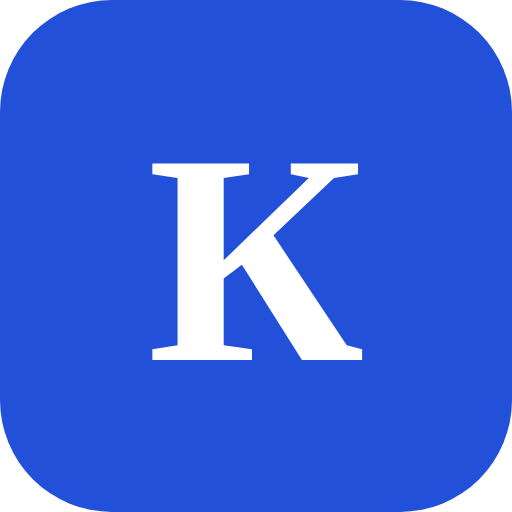
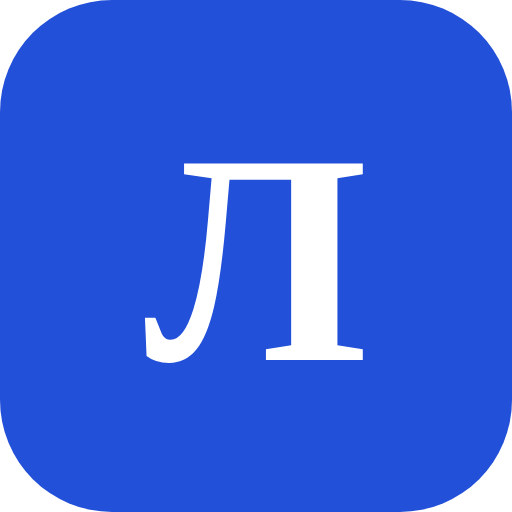
campus: переименование в «Лекторий»
Меняются только видимые названия: шапка, заголовок вкладки, манифест PWA,
иконка (буква Л), имя .ics и заголовки уведомлений. Внутренние идентификаторы
(ключи localStorage, файл базы, cookie, UID в .ics) сохранены, чтобы не терять
данные и сессии существующих пользователей.

Claude-Session: https://claude.ai/code/session_011oLkAh26RDVmpdxEqbkyUZ

Changed region(s): [[0.2812, 0.3125, 0.6875, 0.7188], [0.6875, 0.3125, 0.7188, 0.3438]]

diff --git a/campus/src/components/CalendarApp.tsx b/campus/src/components/CalendarApp.tsx
@@ -148,8 +148,8 @@ export function CalendarApp() {
       <a href="#main" className="sr-only-focusable rounded-lg bg-primary px-3 py-2 text-on-primary">К содержимому</a>
       <header className="flex flex-wrap items-center gap-x-3 gap-y-2 py-4">
         <div className="flex items-center gap-2.5">
-          <span aria-hidden className="grid size-10 place-items-center rounded-xl bg-primary text-on-primary font-display text-xl font-bold">К</span>
-          <span className="font-display text-2xl font-semibold tracking-tight">Кампус</span>
+          <span aria-hidden className="grid size-10 place-items-center rounded-xl bg-primary text-on-primary font-display text-xl font-bold">Л</span>
+          <span className="font-display text-2xl font-semibold tracking-tight">Лекторий</span>
         </div>
         <div className="relative order-3 w-full md:order-none md:ml-4 md:w-80">
           <Search size={16} aria-hidden className="pointer-events-none absolute left-3 top-1/2 -translate-y-1/2 text-muted" />

diff --git a/campus/src/components/SettingsDialog.tsx b/campus/src/components/SettingsDialog.tsx
@@ -32,13 +32,13 @@ export function SettingsDialog({ open, onClose, classes, onLogin }: { open: bool
   const device = typeof Intl !== "undefined" ? Intl.DateTimeFormat().resolvedOptions().timeZone : "Europe/Moscow";
 
   function download() {
-    const blob = new Blob([buildIcs({ name: "Кампус", entries, classes })], { type: "text/calendar;charset=utf-8" });
+    const blob = new Blob([buildIcs({ name: "Лекторий", entries, classes })], { type: "text/calendar;charset=utf-8" });
     const a = document.createElement("a");
     a.href = URL.createObjectURL(blob);
-    a.download = "campus.ics";
+    a.download = "lektorij.ics";
     a.click();
     URL.revokeObjectURL(a.href);
-    say("Файл campus.ics скачан");
+    say("Файл lektorij.ics скачан");
   }
 
   const feedUrl = feedToken && typeof location !== "undefined" ? `${location.origin}/api/feed?token=${feedToken}` : null;

diff --git a/campus/src/app/layout.tsx b/campus/src/app/layout.tsx
@@ -3,10 +3,10 @@ import { PwaRegister } from "@/components/PwaRegister";
 import "./globals.css";
 
 export const metadata: Metadata = {
-  title: "Кампус — расписание и дедлайны",
+  title: "Лекторий — расписание и дедлайны",
   description: "Личный учебный календарь студента СПбГУ: пары, дедлайны, заметки и напоминания.",
   manifest: "/manifest.webmanifest",
-  appleWebApp: { capable: true, title: "Кампус", statusBarStyle: "default" },
+  appleWebApp: { capable: true, title: "Лекторий", statusBarStyle: "default" },
   icons: { icon: "/icon.svg", apple: "/icon-192.png" },
 };
 

diff --git a/campus/public/sw.js b/campus/public/sw.js
@@ -1,4 +1,4 @@
-/* Кампус — service worker: офлайн-оболочка и push-уведомления. */
+/* Лекторий — service worker: офлайн-оболочка и push-уведомления. */
 const VERSION = "v1";
 const SHELL = `campus-shell-${VERSION}`;
 const STATIC = `campus-static-${VERSION}`;
@@ -54,7 +54,7 @@ self.addEventListener("fetch", (e) => {
 });
 
 self.addEventListener("push", (e) => {
-  let d = { title: "Кампус", body: "", tag: undefined, url: "/" };
+  let d = { title: "Лекторий", body: "", tag: undefined, url: "/" };
   try {
     d = { ...d, ...e.data.json() };
   } catch {}

diff --git a/campus/src/app/api/push/test/route.ts b/campus/src/app/api/push/test/route.ts
@@ -6,6 +6,6 @@ import { sendToUser } from "@/lib/push";
 export async function POST() {
   const u = await currentUser();
   if (!u) return bad("Нужно войти", 401);
-  const n = await sendToUser(getDb(), u.id, { title: "Кампус", body: "Уведомления работают 🎉", tag: "test", url: "/" });
+  const n = await sendToUser(getDb(), u.id, { title: "Лекторий", body: "Уведомления работают 🎉", tag: "test", url: "/" });
   return n ? json({ delivered: n }) : bad("Не удалось доставить: нет активных подписок", 409);
 }

diff --git a/campus/src/app/api/feed/route.ts b/campus/src/app/api/feed/route.ts
@@ -33,10 +33,10 @@ export async function GET(req: NextRequest) {
     );
   }
 
-  return new Response(buildIcs({ name: "Кампус", entries, classes }), {
+  return new Response(buildIcs({ name: "Лекторий", entries, classes }), {
     headers: {
       "content-type": "text/calendar; charset=utf-8",
-      "content-disposition": 'inline; filename="campus.ics"',
+      "content-disposition": 'inline; filename="lektorij.ics"',
       "cache-control": "private, max-age=900",
     },
   });

diff --git a/campus/src/lib/ics.ts b/campus/src/lib/ics.ts
@@ -90,7 +90,7 @@ export function buildIcs(opts: { name: string; entries: Entry[]; classes?: Class
   const lines = [
     "BEGIN:VCALENDAR",
     "VERSION:2.0",
-    "PRODID:-//Кампус//Расписание и дедлайны//RU",
+    "PRODID:-//Лекторий//Расписание и дедлайны//RU",
     "CALSCALE:GREGORIAN",
     "METHOD:PUBLISH",
     `X-WR-CALNAME:${esc(opts.name)}`,

diff --git a/campus/README.md b/campus/README.md
@@ -1,4 +1,4 @@
-# Кампус — расписание и дедлайны
+# Лекторий — расписание и дедлайны
 
 Личный учебный календарь для студентов СПбГУ: пары с timetable.spbu.ru, дедлайны и заметки
 с повторами, push-напоминания, экспорт и подписка `.ics`, тёмная тема, PWA и офлайн.
